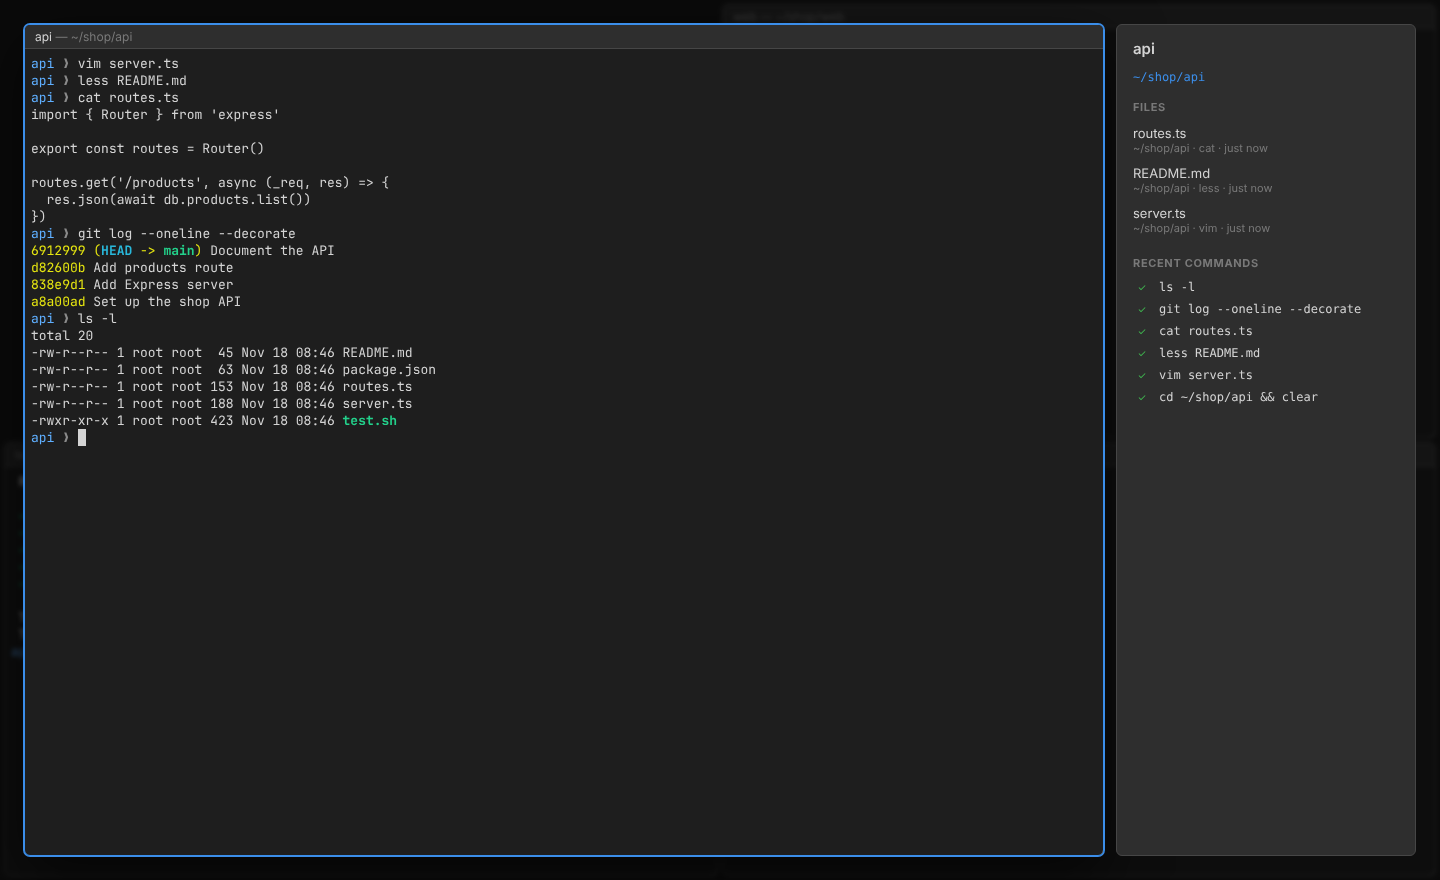
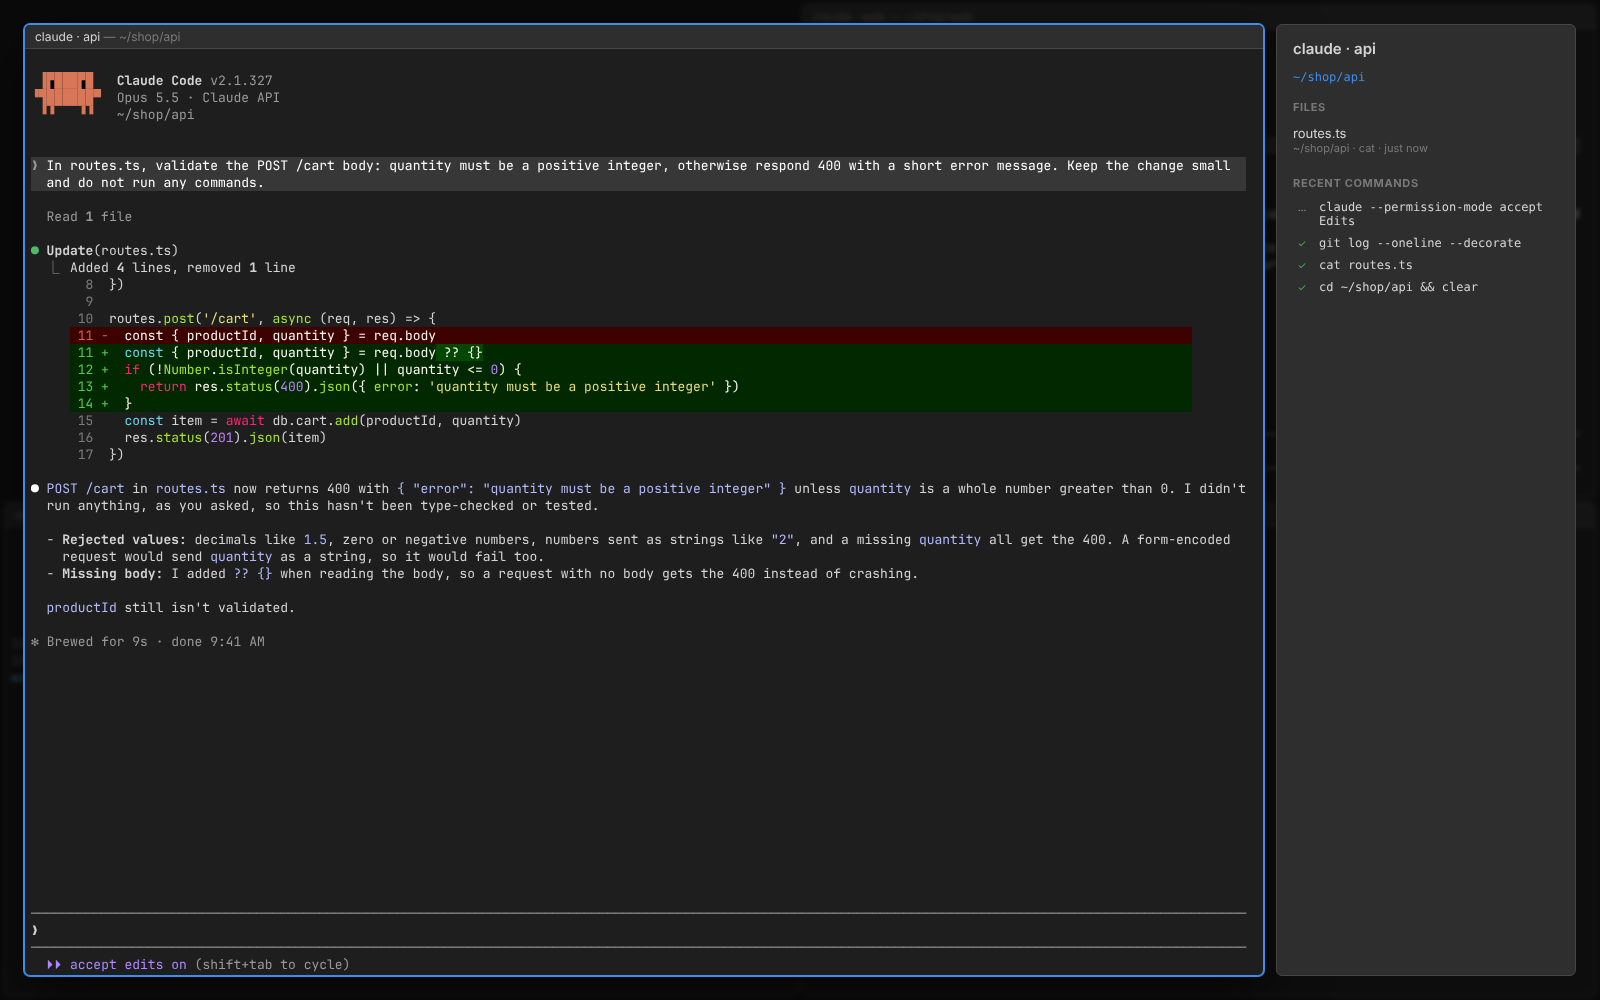
README screenshots: show two Claude Code sessions
The grid now shows Claude Code editing an API route and explaining a
component, next to a dev server and tests; focus mode shows a Claude Code
session with its Context panel. The screenshot script runs real Claude Code
sessions in a throwaway demo project with their own minimal config.

Claude-Session: https://claude.ai/code/session_019L9dVCkV36iLAKmNuAUy8H

diff --git a/README.md b/README.md
@@ -2,13 +2,13 @@
 
 [![CI](https://github.com/aiah123/grid-shell/actions/workflows/ci.yml/badge.svg)](https://github.com/aiah123/grid-shell/actions/workflows/ci.yml)
 
-Grid Shell is a terminal for macOS and Linux that keeps all your shell sessions in view at once. Sessions share the window as an even grid, so you can watch a dev server, logs and tests side by side, then step into any one of them when you need to focus.
+Grid Shell is a terminal for macOS and Linux that keeps all your shell sessions in view at once. Sessions share the window as an even grid, so you can run several Claude Code sessions, a dev server and your tests side by side, then step into any one of them when you need to focus.
 
-![Four sessions side by side in the grid](docs/screenshots/grid.png)
+![Two Claude Code sessions, a dev server and tests side by side in the grid](docs/screenshots/grid.png)
 
 Double-click a session (or press Cmd+Enter / Ctrl+Shift+Enter) to focus on it. It fills most of the window, next to a Context panel showing its folder, the files you've opened in it and its recent commands. Click anywhere outside it to go back to the grid.
 
-![Focus mode: one session enlarged, with its Context panel](docs/screenshots/focus.png)
+![Focus mode: a Claude Code session enlarged, with its Context panel](docs/screenshots/focus.png)
 
 **What it does:**
 - **Every session in view:** sessions split the window evenly. Drag the borders between them to resize; double-click a border to make them equal again.
@@ -47,7 +47,7 @@ npm run dev        # run with hot reload
 npm test           # unit tests
 npm run typecheck
 npm run build && npm run test:e2e:all   # all end-to-end suites (use xvfb-run -a on headless Linux)
-npm run build && npm run screenshots    # regenerate the README screenshots
+npm run build && npm run screenshots    # regenerate the README screenshots (needs Claude Code installed and signed in)
 ```
 
 CI runs on Linux and macOS for each push and pull request: a dependency audit (it fails on high or critical issues in what ships in the app, and only warns about build and test tools), the type check, the unit tests and every end-to-end suite.
